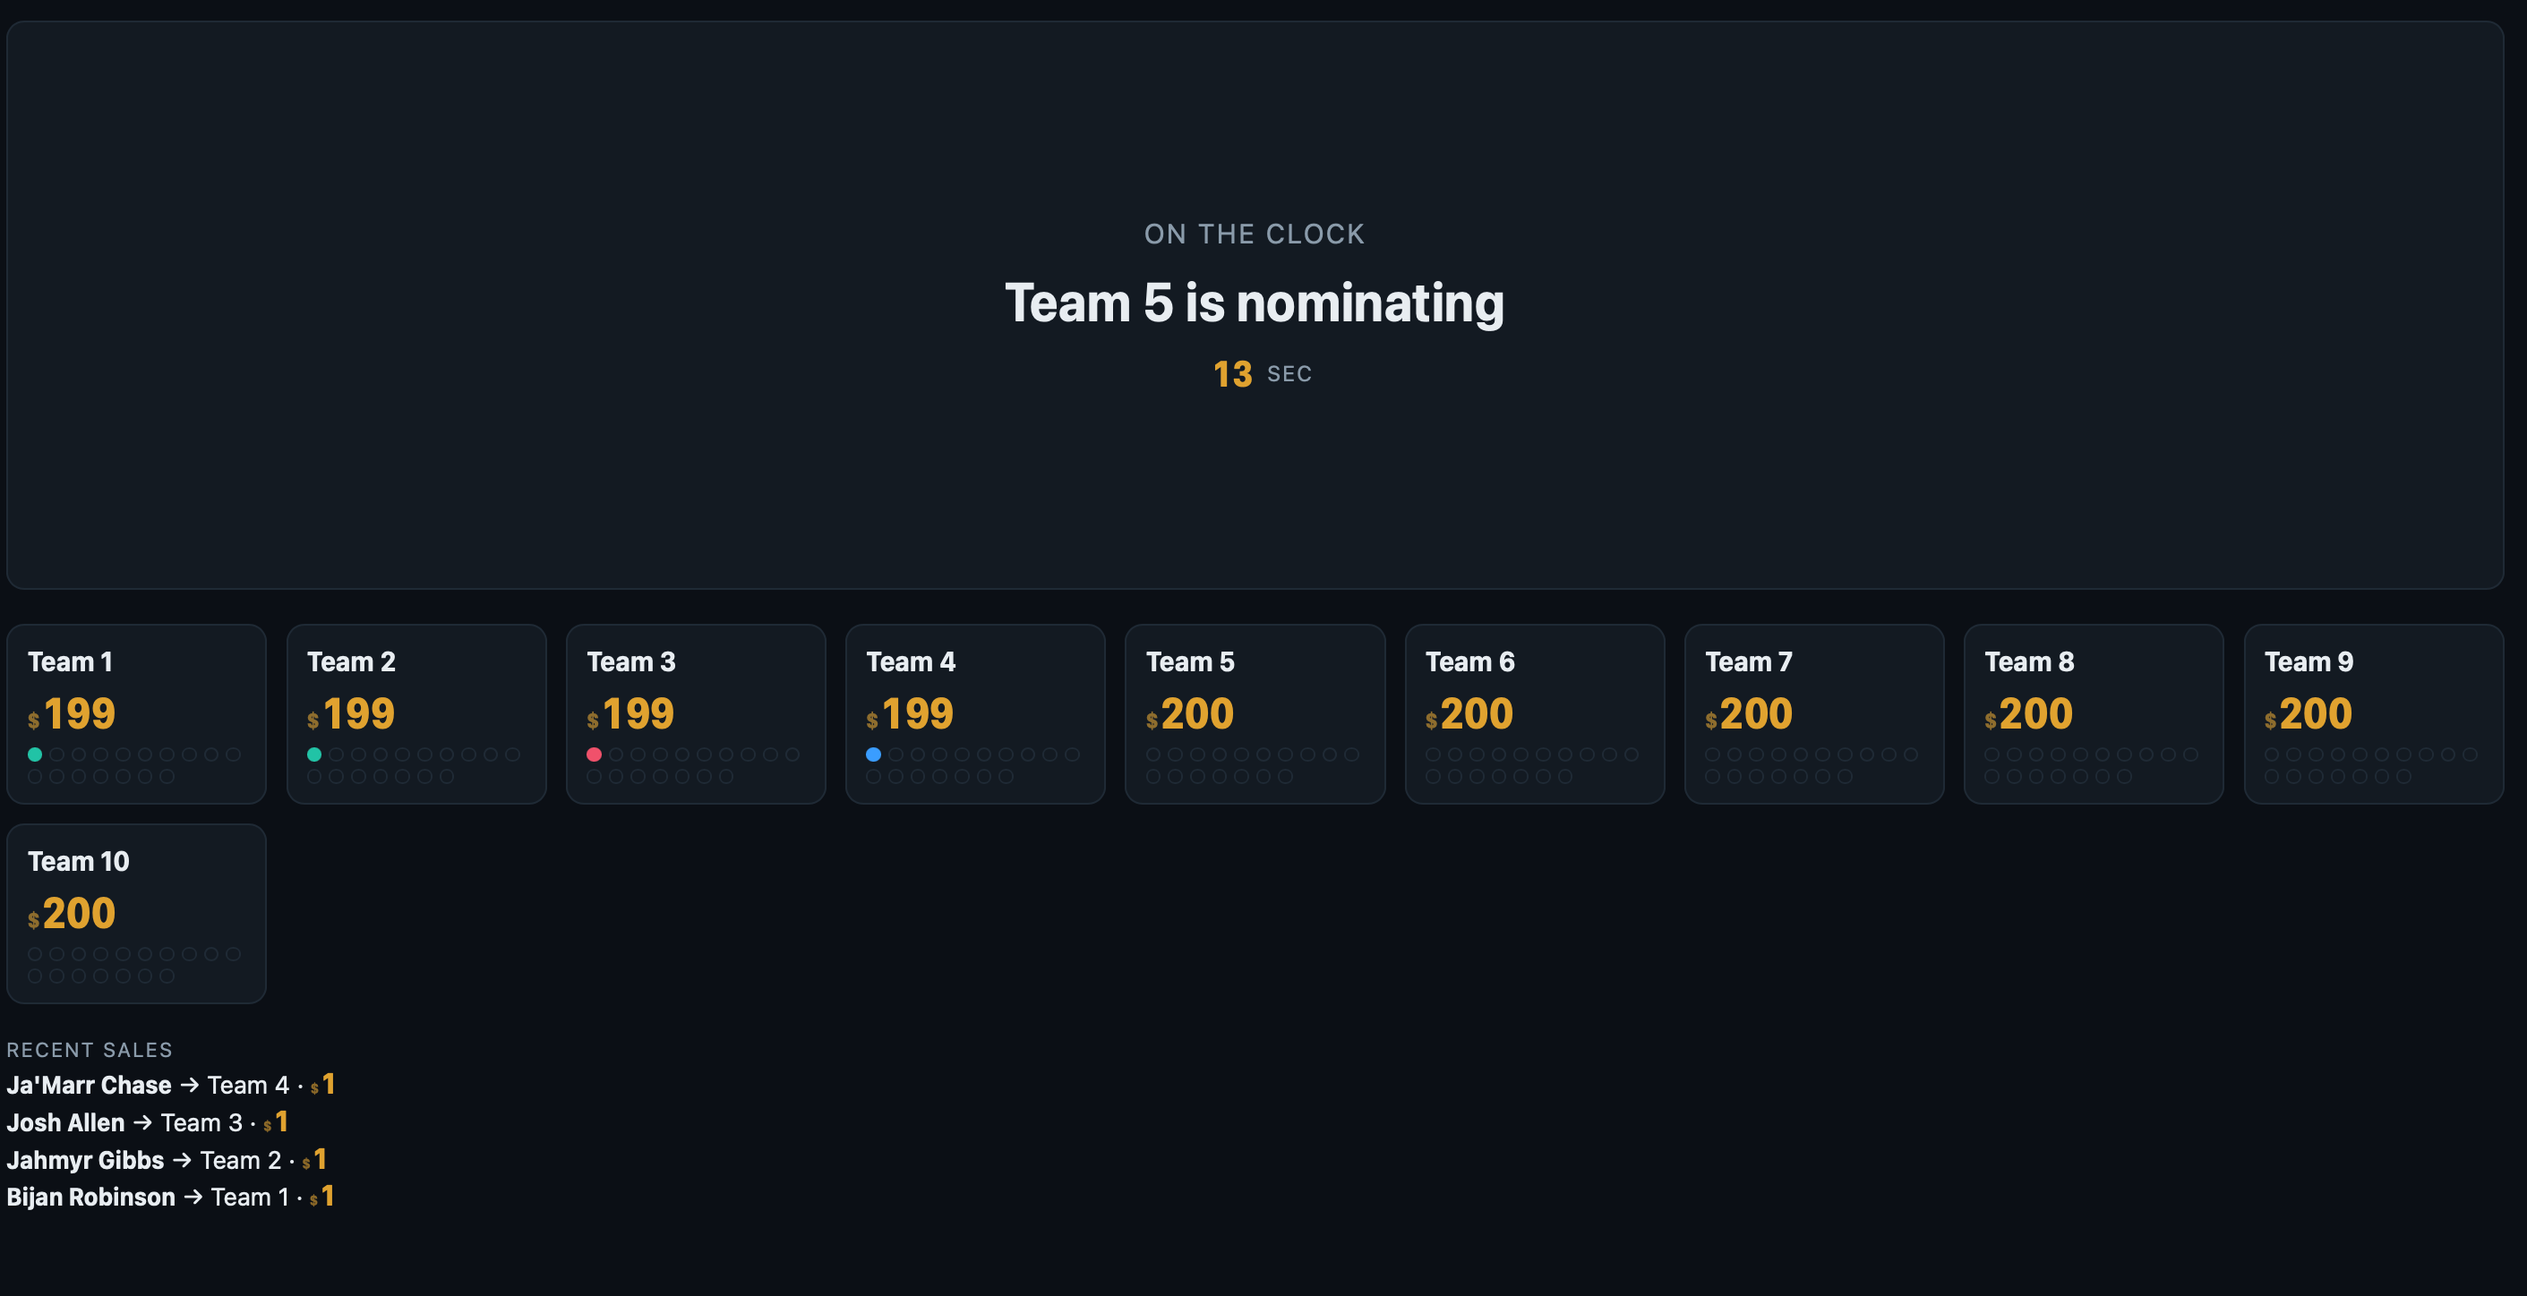
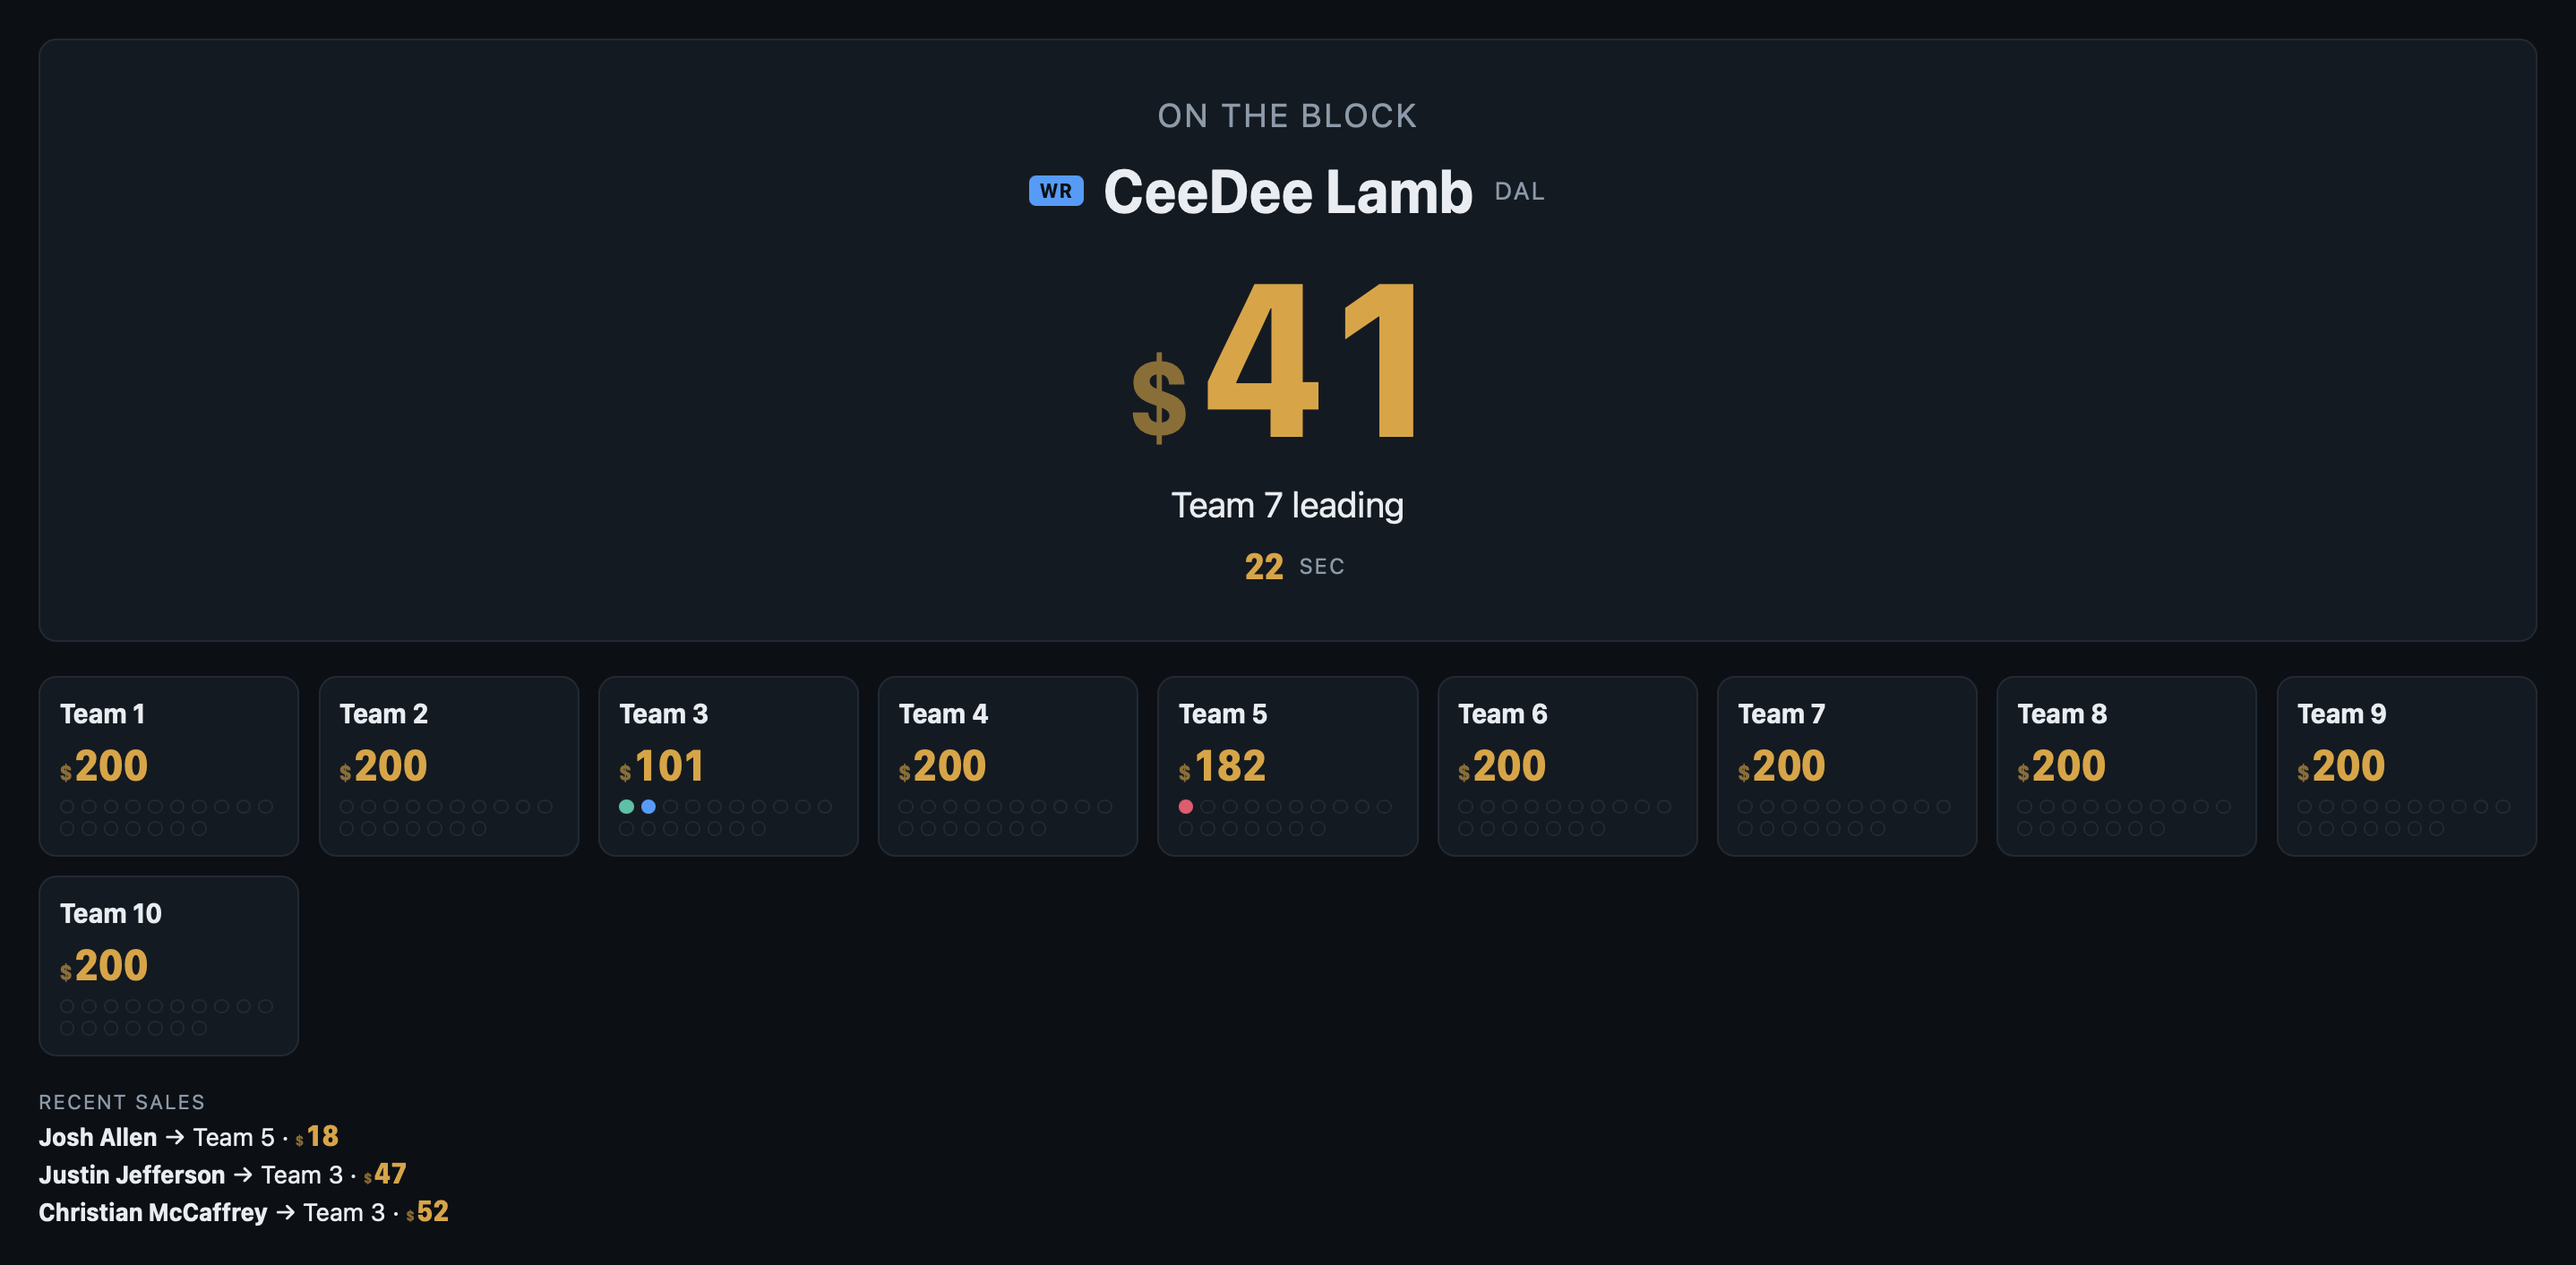
Redesign case study pages (#23)

diff --git a/src/content.config.ts b/src/content.config.ts
@@ -26,6 +26,10 @@ const projects = defineCollection({
       cardSummary: z.string().optional(),
       // Optional colors for this project's card and page. Without it, see src/lib/themes.ts.
       theme: z.object({ accent: hex, bg: hex, bg2: hex, glow: hex }).optional(),
+      // The at-a-glance block under a project title. Each is one plain sentence.
+      role: z.string().optional(),
+      timeline: z.string().optional(),
+      outcome: z.string().optional(),
       stats: z.array(z.object({ value: z.string(), label: z.string() })).optional(),
       repo: z.url().optional(),
       demo: z.url().optional(),

diff --git a/src/content/projects/auction-draft/index.md b/src/content/projects/auction-draft/index.md
@@ -11,7 +11,15 @@ tags: [sports, product, ai-building]
 proof: "Picks up where it left off after a crash"
 proofNote: "Every bid is logged, so a server restart loses nothing"
 cover: ./tv-board.png
-coverAlt: "Draft room TV board showing every team's budget, the nomination clock and recent sales"
+coverAlt: "The draft room TV board during bidding: CeeDee Lamb on the block at $41, Team 7 leading with 22 seconds left, every team's remaining budget, and the three most recent sales"
+role: "I reviewed and approved a design spec and three build plans, then directed Claude Code one task at a time."
+timeline: "It took six days from spec to a working draft room."
+outcome: "It was never used in a real draft. Our league drafted on ESPN, whose free draft tool already shows the bye weeks, player news and depth charts mine lacked."
+stats:
+  - { value: "6 days", label: "from spec to a working draft room" }
+  - { value: "100", label: "randomized simulated drafts, checked for broken rules" }
+  - { value: "10", label: "bot teams in a full test draft over real connections" }
+  - { value: "3", label: "views: manager phones, a TV board and commissioner controls" }
 ---
 
 **Prototype.** The draft engine works end to end in testing. It was never used in a real draft.
@@ -26,11 +34,19 @@ I wanted a draft room that was free, reliable, and built around how our league a
 
 A live draft room that everyone joins from their phone, with a TV screen for the room.
 
+![A manager's phone during bidding: budget left, max bid and open spots at the top, the player on the block with the current bid and clock, and quick bid buttons](./manager-phone.png) ![The same phone screen two seconds before the player sells, with the card outlined in red and labeled Going twice](./manager-phone-going-twice.png)
+
+*A manager's phone with 26 seconds left on the 30-second bid clock, and the same screen at 2 seconds, going twice.*
+
 - **No accounts.** The commissioner gets a link to run the draft, a link for the TV board, and one invite link per team.
-- **Live auction.** Teams take turns nominating players. Bidding runs on a 10-second clock that resets with every bid. When the clock runs out, the player is sold and drops into the winning team's roster.
+- **Live auction.** Teams take turns nominating players. Bidding runs on a 30-second clock that resets with every bid. When the clock runs out, the player is sold and drops into the winning team's roster.
 - **The rules are enforced for you.** The app tracks every budget and roster limit, and it caps each bid so every team can still afford to fill its roster. A bid placed a split second too late is rejected rather than silently counted.
 - **Three views:** a phone screen for each manager, a TV board showing every roster and budget, and commissioner controls to start, pause, add time or bid for someone.
 - **It survives a crash.** Every draft action is saved to a log. If the server goes down, the draft comes back exactly where it was, paused, ready to resume.
+
+![The commissioner's screen: Start draft, Pause and +30s buttons, a picker to act as any team and nominate or bid for it, above CeeDee Lamb on the block at $41 with Team 7 leading and 22 seconds on the bid clock](./commissioner-on-the-block.png)
+
+*The commissioner's screen at the same moment as the TV board at the top of the page. From here the commissioner can pause, add 30 seconds, or nominate and bid on behalf of any team.*
 
 *Stack, for the curious: TypeScript throughout, with React for the screens, Node.js with live websocket connections for the bidding, and Postgres for the draft log. Player data comes from Sleeper's free API.*
 
@@ -49,6 +65,10 @@ It took six days from spec to a working draft room.
 ## Why I stopped
 
 When I tested it as a drafter, I saw the problem. I'd built the auction itself (bids, budgets, timers), but a drafter's real job is deciding who to bid on. For that you need bye weeks, recent player news and depth charts at hand, and my app had none of it. The free draft tool in ESPN's app already has all of that.
+
+![The manager view on a laptop: budget, max bid and open spots, the player on the block and bid buttons, with nothing about the player himself](./manager-going-once.png)
+
+*Everything a drafter needs to place a bid, and nothing that helps decide who to bid on.*
 
 Matching it was a data problem, not an engineering one, and it was more work than I could finish before our draft. So I stopped, and our league drafted on ESPN.
 

diff --git a/src/content/projects/slick-bets/index.md b/src/content/projects/slick-bets/index.md
@@ -13,6 +13,14 @@ proofNote: "648 games, each prediction locked in before tip-off"
 cardSummary: "My first Claude Code project: an NBA prediction app that ran live through the 2025-26 season."
 cover: ./home-picks.png
 coverAlt: "Slick Bets daily picks table with matchups, picks, win probability and predicted spreads"
+role: "I directed Claude Code through every part of it, made the calls on the model and the product, and reviewed everything before it shipped."
+timeline: "I built it over about ten weeks, and it ran live through the end of the 2025-26 NBA season."
+outcome: "A small group of friends used it, and I never promoted it. I never tracked betting profit, so I make no claims about beating the books."
+stats:
+  - { value: "71.5%", label: "of game winners picked correctly, tracked live" }
+  - { value: "648", label: "games predicted, each locked in before tip-off" }
+  - { value: "840", label: "combinations of settings backtested on 900+ games" }
+  - { value: "<10", label: "points median miss on the predicted spread" }
 ---
 
 **Retired.** It ran live through the 2025-26 NBA season, and it's dormant now.
@@ -34,10 +42,18 @@ Slick Bets is a web app that predicts every NBA game, every day.
 
 Under the hood, every team has an Elo rating, a score that rises and falls with each result. Bigger wins move it more. Each team has separate offense and defense ratings, and they combine into a predicted score for both teams.
 
+![Slick Bets Team Ratings page: a table ranking NBA teams by Elo rating with a tier for each, beside a bar chart of how many teams sit in each tier](./team-ratings.png)
+
+*The Team Ratings page ranks all 30 teams by Elo and sorts them into tiers.*
+
 The model then adjusts for three things:
 - **Injuries,** weighted by how much the missing player matters.
 - **Rest,** with a penalty for the second night of back-to-back games.
 - **Home court,** sized to each team's own home record.
+
+![Slick Bets Game Details page: notes on which teams are playing the second night of a back-to-back, above a table of every prediction with win chances, predicted spread and fair odds](./game-details.png)
+
+*Game Details lists every adjustment behind the day's picks, like a team on the second night of a back-to-back, above the full table of predictions and fair odds.*
 
 It runs itself. Every morning a scheduled job pulls yesterday's results, updates the ratings, checks injuries and odds, and makes the day's picks. Every code change runs the tests and deploys on its own.
 
@@ -62,6 +78,10 @@ Three decisions shaped it:
 Each one became a fix and a written rule in the project's instructions file, so Claude wouldn't repeat the mistake.
 
 ## Outcome
+
+![Slick Bets Model Accuracy page showing 648 games analyzed, 463 of 648 correct picks and 71.5% pick accuracy](./model-accuracy.png)
+
+*The app's own Model Accuracy page, which tracked every locked-in pick.*
 
 - **71.5% of winners picked correctly (463 of 648 games),** tracked live from mid-season through the end of 2025-26. Every prediction was locked in before tip-off. The median spread miss was under 10 points.
 - I retuned the model in early March using that season's games, so only the picks after that point are fully forward-looking.

diff --git a/src/content/projects/support-content-hub/index.md b/src/content/projects/support-content-hub/index.md
@@ -15,6 +15,9 @@ stats:
   - { value: "~1,800", label: "missed article links found" }
   - { value: "10,000+", label: "support tickets analyzed" }
   - { value: "1,000+", label: "support articles migrated" }
+role: "I was the program lead for the content migration. A product manager led the larger platform move to Salesforce."
+timeline: "I led the content migration from Q1 2026 and handed it off in May 2026, when it was nearly complete."
+outcome: "The knowledge base launched to about 1,000 support agents at one brand, and the migration was scoped on corrected data, with a clear list of what to migrate and what to archive."
 ---
 
 **Shipped.** I led the support-content migration during Block's move off Zendesk. Along the way I built the tools the migration needed, including an agent knowledge base that went to production.
